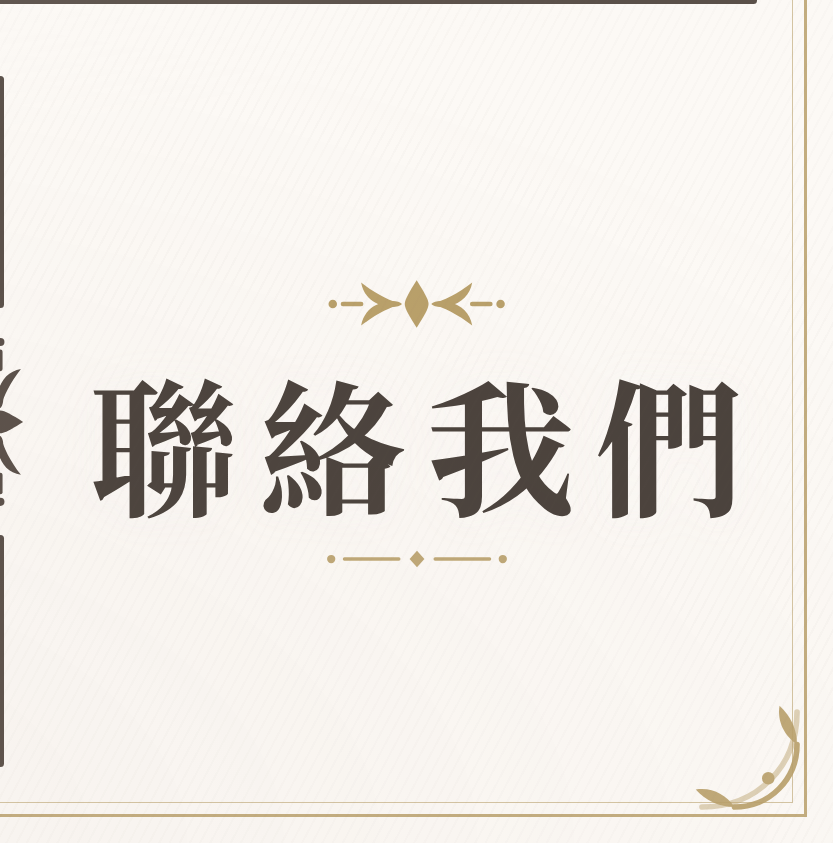
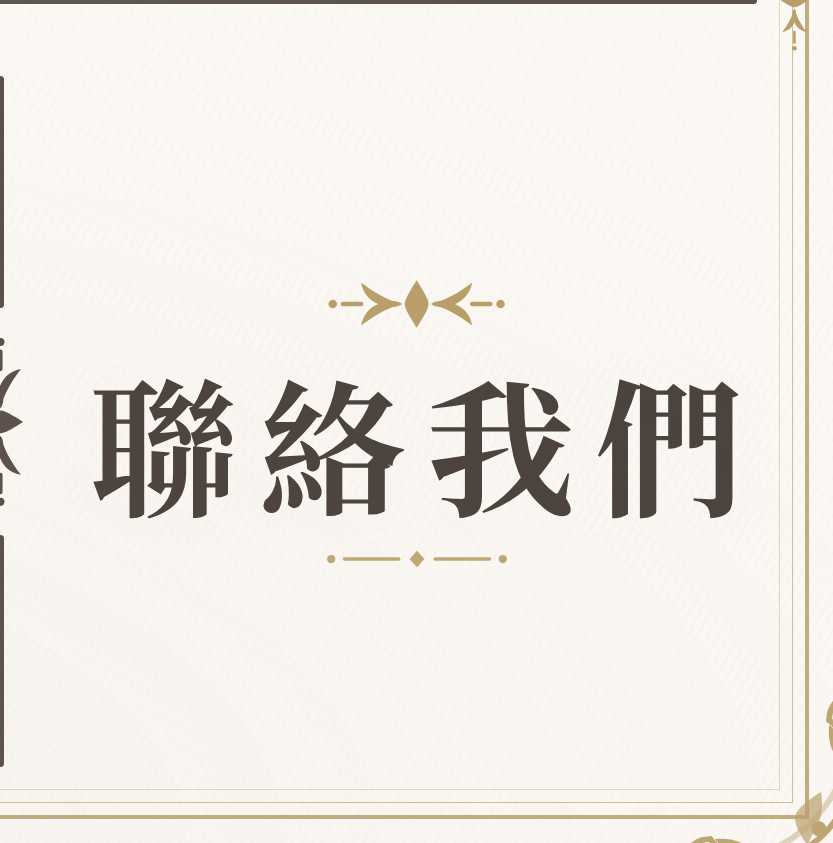
Make the border more ornate
Three gold rules fading outward to inward instead of two. The corner
pieces grow into proper scrollwork — twin arcs ending in volutes, with
leaves and a small palmette tucked into the inner angle — and each edge
carries a small ornament at its midpoint.

Those midpoint ornaments first had a cream backdrop meant to break the
rules behind them, which over a photograph showed as a pale blotch; they
now sit directly on the rules, gold over gold, which reads as a node.

Claude-Session: https://claude.ai/code/session_01A5qo6pz84M1KAVHNuRqreg

Changed region(s): [[0.0, 0.8327, 1.0, 1.0], [0.9364, 0.0, 0.9676, 0.0617]]

diff --git a/生成/官方line/圖文選單/產生圖片.js b/生成/官方line/圖文選單/產生圖片.js
@@ -35,12 +35,19 @@ const RULE=(c,w)=>`<svg width="${w}" height="${w*0.085}" viewBox="0 0 400 34" fi
  <path d="M222 17 C242 17 262 17 288 17" fill="none" stroke="${c}" stroke-width="4" stroke-linecap="round"/>
  <circle cx="96" cy="17" r="5"/><circle cx="304" cy="17" r="5"/></svg>`;
 /* 整幅外框的四角花飾 */
-const CORNER=c=>`<svg width="150" height="150" viewBox="0 0 120 120" fill="${c}">
- <g fill="none" stroke="${c}" stroke-width="4.5" stroke-linecap="round">
-   <path d="M8 58 C8 30 30 8 58 8"/><path d="M8 84 C8 40 40 8 84 8" opacity=".5"/></g>
- <path d="M58 8 C70 8 81 13 89 22 C76 24 65 18 58 8 Z"/>
- <path d="M8 58 C8 70 13 81 22 89 C24 76 18 65 8 58 Z"/>
- <circle cx="31" cy="31" r="5"/></svg>`;
+const CORNER=c=>`<svg width="208" height="208" viewBox="0 0 180 180" fill="${c}">
+ <g fill="none" stroke="${c}" stroke-width="5" stroke-linecap="round">
+   <path d="M12 92 C12 48 48 12 92 12"/>
+   <path d="M12 128 C12 64 64 12 128 12" opacity=".45"/>
+   <path d="M92 12 C110 12 124 19 134 31"/>
+   <path d="M12 92 C12 110 19 124 31 134"/>
+   <path d="M134 31 C146 31 154 24 154 14 C154 5 143 3 140 11 C137 19 146 22 152 18"/>
+   <path d="M31 134 C31 146 24 154 14 154 C5 154 3 143 11 140 C19 137 22 146 18 152"/>
+ </g>
+ <path d="M92 12 C106 12 119 19 130 31 C112 33 98 26 92 12 Z"/>
+ <path d="M12 92 C12 106 19 119 31 130 C33 112 26 98 12 92 Z"/>
+ <path d="M50 26 C58 38 62 46 60 52 C58 58 50 64 38 72 C36 58 38 48 42 42 C45 37 47 31 50 26 Z" opacity=".75"/>
+ <circle cx="40" cy="40" r="6.5"/></svg>`;
 
 const CSS=`
 @import url('https://fonts.googleapis.com/css2?family=Noto+Serif+TC:wght@600;700;900&display=swap');
@@ -55,8 +62,8 @@ body{font-family:"Noto Serif TC",serif;color:var(--ink);background:var(--cream)}
              radial-gradient(120% 90% at 50% 100%,rgba(176,152,140,.14),transparent 58%)}
 /* 整幅外框：雙線＋四角花飾 */
 .edge{position:absolute;z-index:5;pointer-events:none;border:3px solid var(--gold);opacity:.85}
-.edge.o{inset:26px}.edge.i{inset:40px;border-width:1.5px;opacity:.6}
-.cnr{position:absolute;z-index:5;pointer-events:none;opacity:.9}
+.edge.o{inset:24px;border-width:4px}.edge.i{inset:40px;border-width:1.5px;opacity:.65}.edge.t{inset:53px;border-width:1px;opacity:.38}
+.cnr{position:absolute;z-index:5;pointer-events:none;opacity:.92}.eo{position:absolute;z-index:5;pointer-events:none;display:grid;place-items:center;background:transparent}
 .cell{position:absolute;overflow:hidden}
 .photo{position:absolute;inset:0}
 .photo img{width:100%;height:100%;object-fit:cover;filter:saturate(.5)}
@@ -99,6 +106,13 @@ const weekly=(x,y,w,h)=>`<div class="cell" style="left:${x}px;top:${y}px;width:$
 const M=76, PAD=70;
 const vdiv=(x,y)=>`<div class="div v" style="left:${x-PAD/2}px;top:${y+M}px;width:${PAD}px;height:${CH-M*2}px">
   <span class="bar"></span>${ORN('var(--line)',{long:false,vert:true})}<span class="bar"></span></div>`;
+const EC=39, EW=168, EH=62;   // 框線中心、襯底長短邊
+const edgeOrn=[
+  `left:${W/2-EW/2}px;top:${EC-EH/2}px;width:${EW}px;height:${EH}px`,
+  `left:${W/2-EW/2}px;top:${H-EC-EH/2}px;width:${EW}px;height:${EH}px`,
+  `left:${EC-EH/2}px;top:${H/2-EW/2}px;width:${EH}px;height:${EW}px`,
+  `left:${W-EC-EH/2}px;top:${H/2-EW/2}px;width:${EH}px;height:${EW}px`]
+ .map((st,i)=>`<div class="eo" style="${st}">${ORN('var(--gold)',{long:false,scale:0.6,vert:i>1})}</div>`).join('');
 const corners=[[26,26,0],[W-176,26,90],[W-176,H-176,180],[26,H-176,270]]
   .map(([l,t,r])=>`<div class="cnr" style="left:${l}px;top:${t}px;transform:rotate(${r}deg)">${CORNER('var(--gold)')}</div>`).join('');
 
@@ -111,7 +125,7 @@ ${cell('聯絡我們',null,WIDE,CH,W-WIDE,CH)}
 <div class="div h" style="left:${M}px;top:${CH-PAD/2}px;width:${W-M*2}px;height:${PAD}px">
   <span class="bar"></span>${ORN('var(--line)',{long:true})}<span class="bar"></span></div>
 ${vdiv(WIDE,0)}${vdiv(CW,CH)}${vdiv(WIDE,CH)}
-<div class="edge o"></div><div class="edge i"></div>${corners}
+<div class="edge o"></div><div class="edge i"></div><div class="edge t"></div>${corners}${edgeOrn}
 <div class="grain"></div></div>`;
 
 (async()=>{

diff --git a/生成/官方line/圖文選單/README.md b/生成/官方line/圖文選單/README.md
@@ -42,13 +42,18 @@ LINE 圖文選單大版面是 2500 × 1686，3 欄 2 列每格約 833 × 843，
 
 | 元素 | 做法 |
 | :--- | :--- |
-| 整幅外框 | 金色雙線（3px＋1.5px），四角各一個捲葉角飾 |
+| 整幅外框 | 金色**三層線**（4px＋1.5px＋1px），由外而內漸淡 |
+| 四角 | 捲葉角飾：雙弧＋兩端渦卷＋尖葉＋內角小棕櫚 |
+| 四邊中央 | 各一個小捲葉紋，壓在框線上形成節點 |
 | 標題上方 | 捲葉紋（金） |
 | 標題下方 | 細飾線：中央菱形＋兩側細線＋端點圓珠 |
 | 字重 | 700 而非 900，字距 0.14em |
 | 分線 | 7px，比先前細 |
 
 外框是整幅一起畫的，切成五塊之後每塊各自帶著自己那一段，拼起來才連得上。
+
+> 四邊中央的花飾原本加了米白襯底想讓框線斷開，但壓在照片上會變成一塊亮斑。
+> 改成直接疊在框線上 —— 金色紋飾壓金色細線，本來就會自然形成節點。
 
 ---
 
